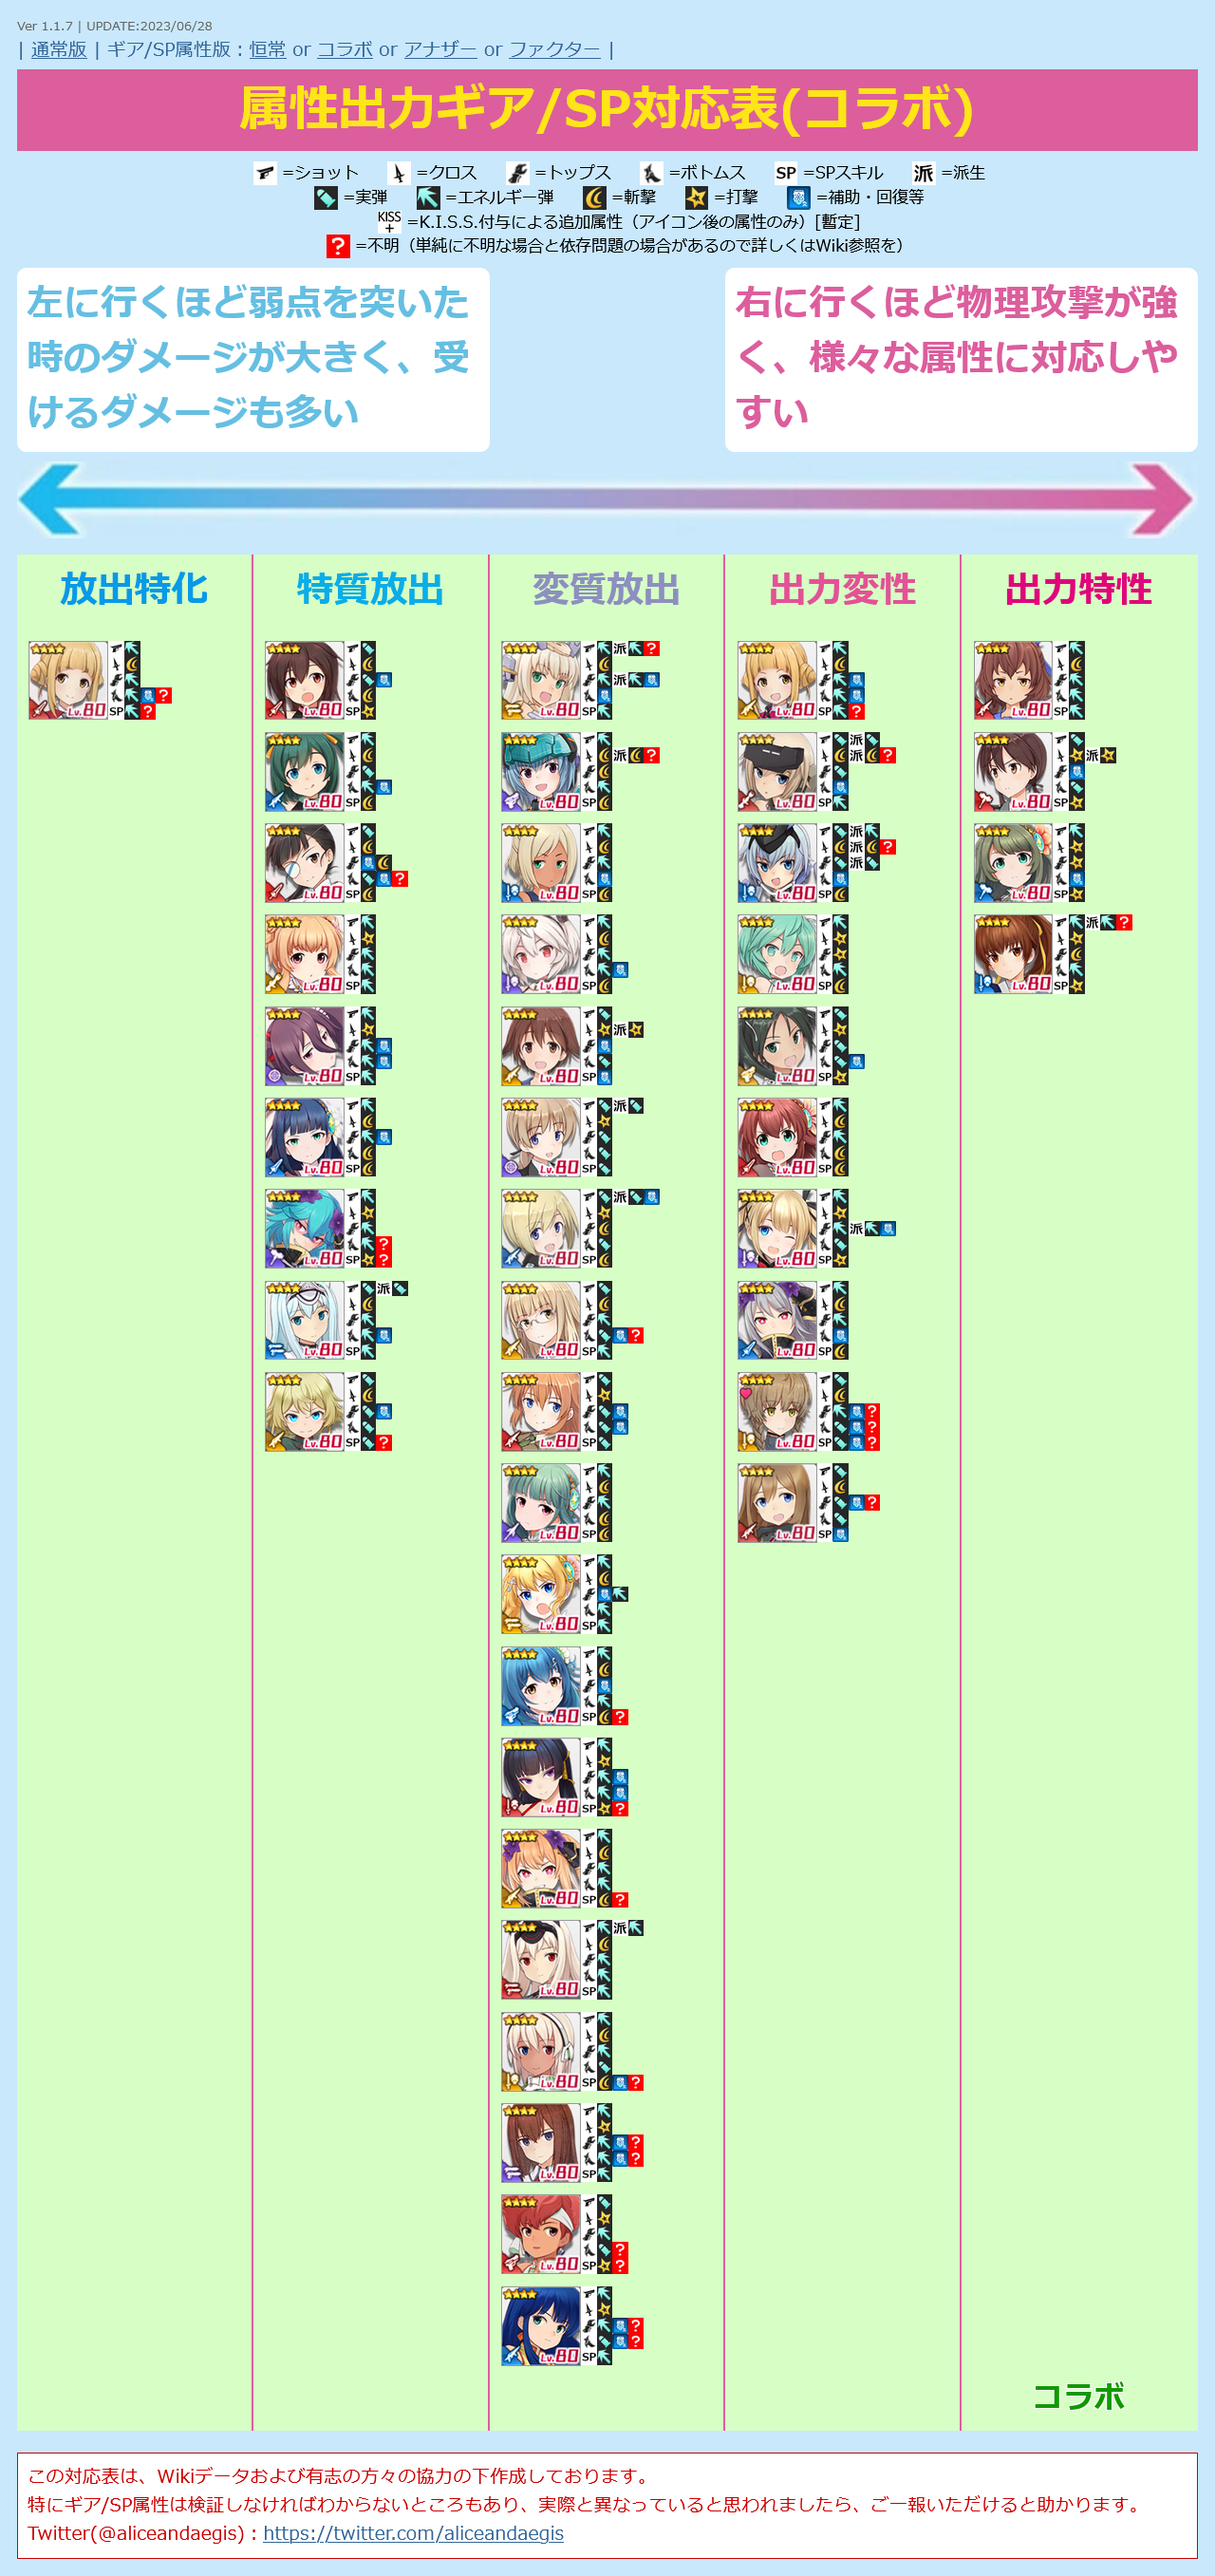
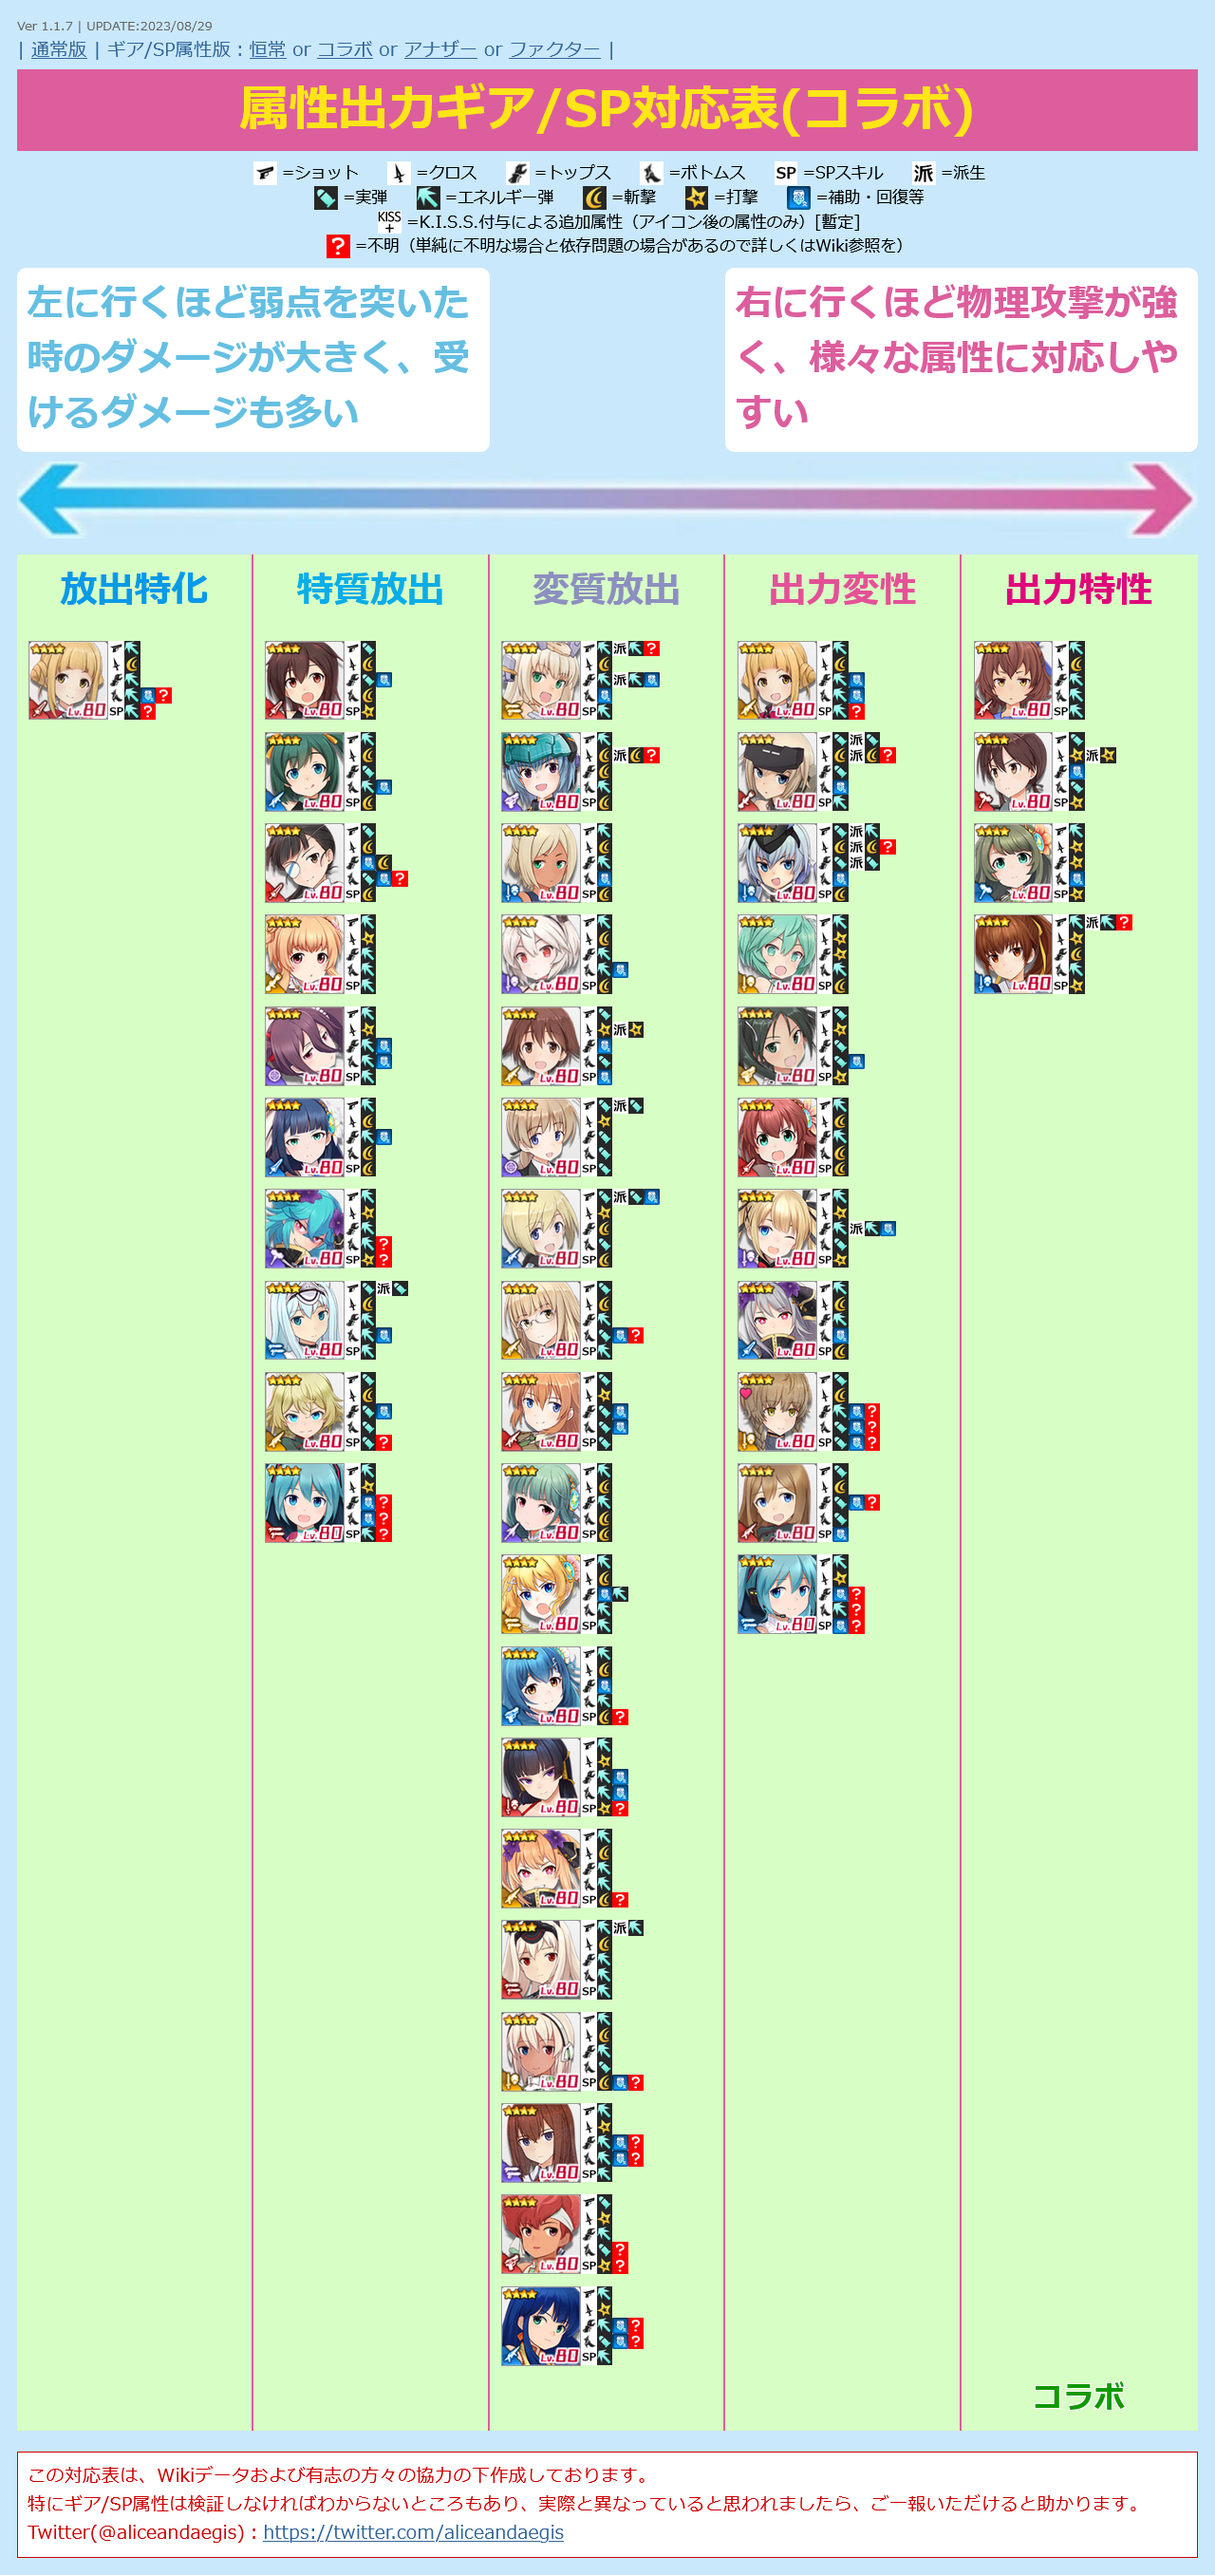
UPDATE charadata
・コラボキャラ 初音 ミクを追加
・コラボキャラ 初音 ミク / 音色を追加

diff --git a/alice.html b/alice.html
@@ -12,7 +12,7 @@
   <script>
 
 /* 更新情報 必要に応じて書き換えてください */
-  var version = "Ver 1.1.7 | UPDATE:2023/08/19";
+  var version = "Ver 1.1.7 | UPDATE:2023/08/29";
 
 
 /*
@@ -21,7 +21,7 @@
 
   { ... },
   でキャラデータがワンセット。各項目は下記の通り。
-  id       = 番号(101～アニメ、151～FAGコラボ、201～SOL/DTAコラボ、301～ｽﾄﾗｲｸｳｨｯﾁｰｽﾞ、401～ﾊﾞﾄﾙｶﾞｰﾙﾊｲｽｸｰﾙ、501～ﾃﾞｯﾄﾞｵｱｱﾗｲﾌﾞ、601～東京ﾄﾞｰﾙｽﾞ、701～ﾀﾞﾗｲｱｽ、801～ｼｭﾀｲﾝｽﾞ･ｹﾞｰﾄ、811～幼女戦記、821～ﾀﾞｰﾃｨﾍﾟｱ)
+  id       = 番号(101～アニメ、151～FAGコラボ、201～SOL/DTAコラボ、301～ｽﾄﾗｲｸｳｨｯﾁｰｽﾞ、401～ﾊﾞﾄﾙｶﾞｰﾙﾊｲｽｸｰﾙ、501～ﾃﾞｯﾄﾞｵｱｱﾗｲﾌﾞ、601～東京ﾄﾞｰﾙｽﾞ、701～ﾀﾞﾗｲｱｽ、801～ｼｭﾀｲﾝｽﾞ･ｹﾞｰﾄ、811～幼女戦記、821～ﾀﾞｰﾃｨﾍﾟｱ、831～初音ミクコラボ)
   type     = 1=放出特化、2=特質放出、3=変質放出、4=出力変性、5=出力特性
   src      = 画像ファイル名
   name     = キャラクター名
@@ -2488,6 +2488,34 @@
       "sp": "2",
       "attr": "4",
       "link": "https://wikiwiki.jp/alicegear/%E3%83%A6%E3%83%AA",
+      "category": "99"
+    },
+    {
+      "id": "831",
+      "type": "4",
+      "src": "normal-miku.png",
+      "name": "初音 ミク",
+      "equip1": "2",
+      "equip2": "4",
+      "equip3": "5?",
+      "equip4": "2?",
+      "sp": "5?",
+      "attr": "4",
+      "link": "https://wikiwiki.jp/alicegear/%E5%88%9D%E9%9F%B3%E3%83%9F%E3%82%AF",
+      "category": "99"
+    },
+    {
+      "id": "832",
+      "type": "2",
+      "src": "another-miku.png",
+      "name": "初音 ミク / 音色",
+      "equip1": "2",
+      "equip2": "4",
+      "equip3": "5?",
+      "equip4": "5?",
+      "sp": "2?",
+      "attr": "3",
+      "link": "https://wikiwiki.jp/alicegear/%E5%88%9D%E9%9F%B3%E3%83%9F%E3%82%AF%E9%9F%B3%E8%89%B2",
       "category": "99"
     },
 
